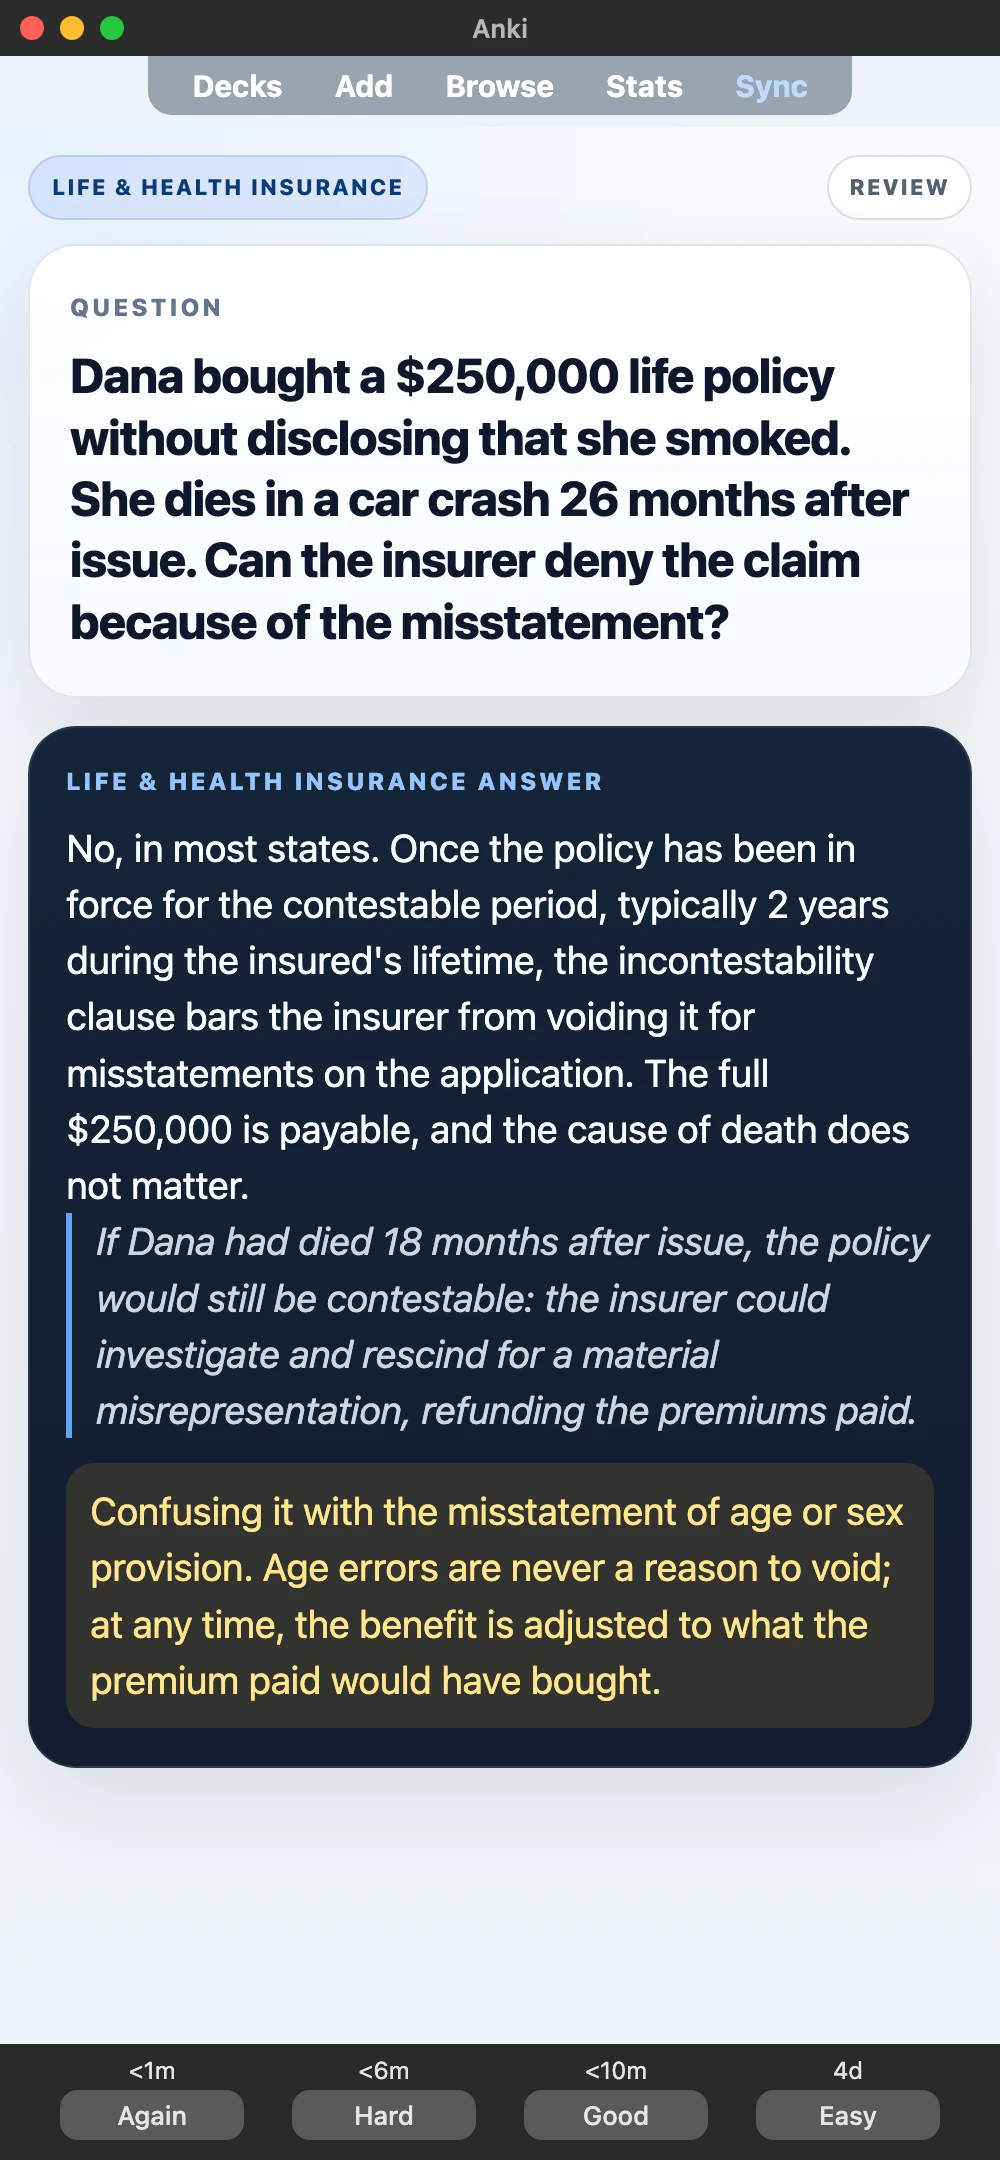
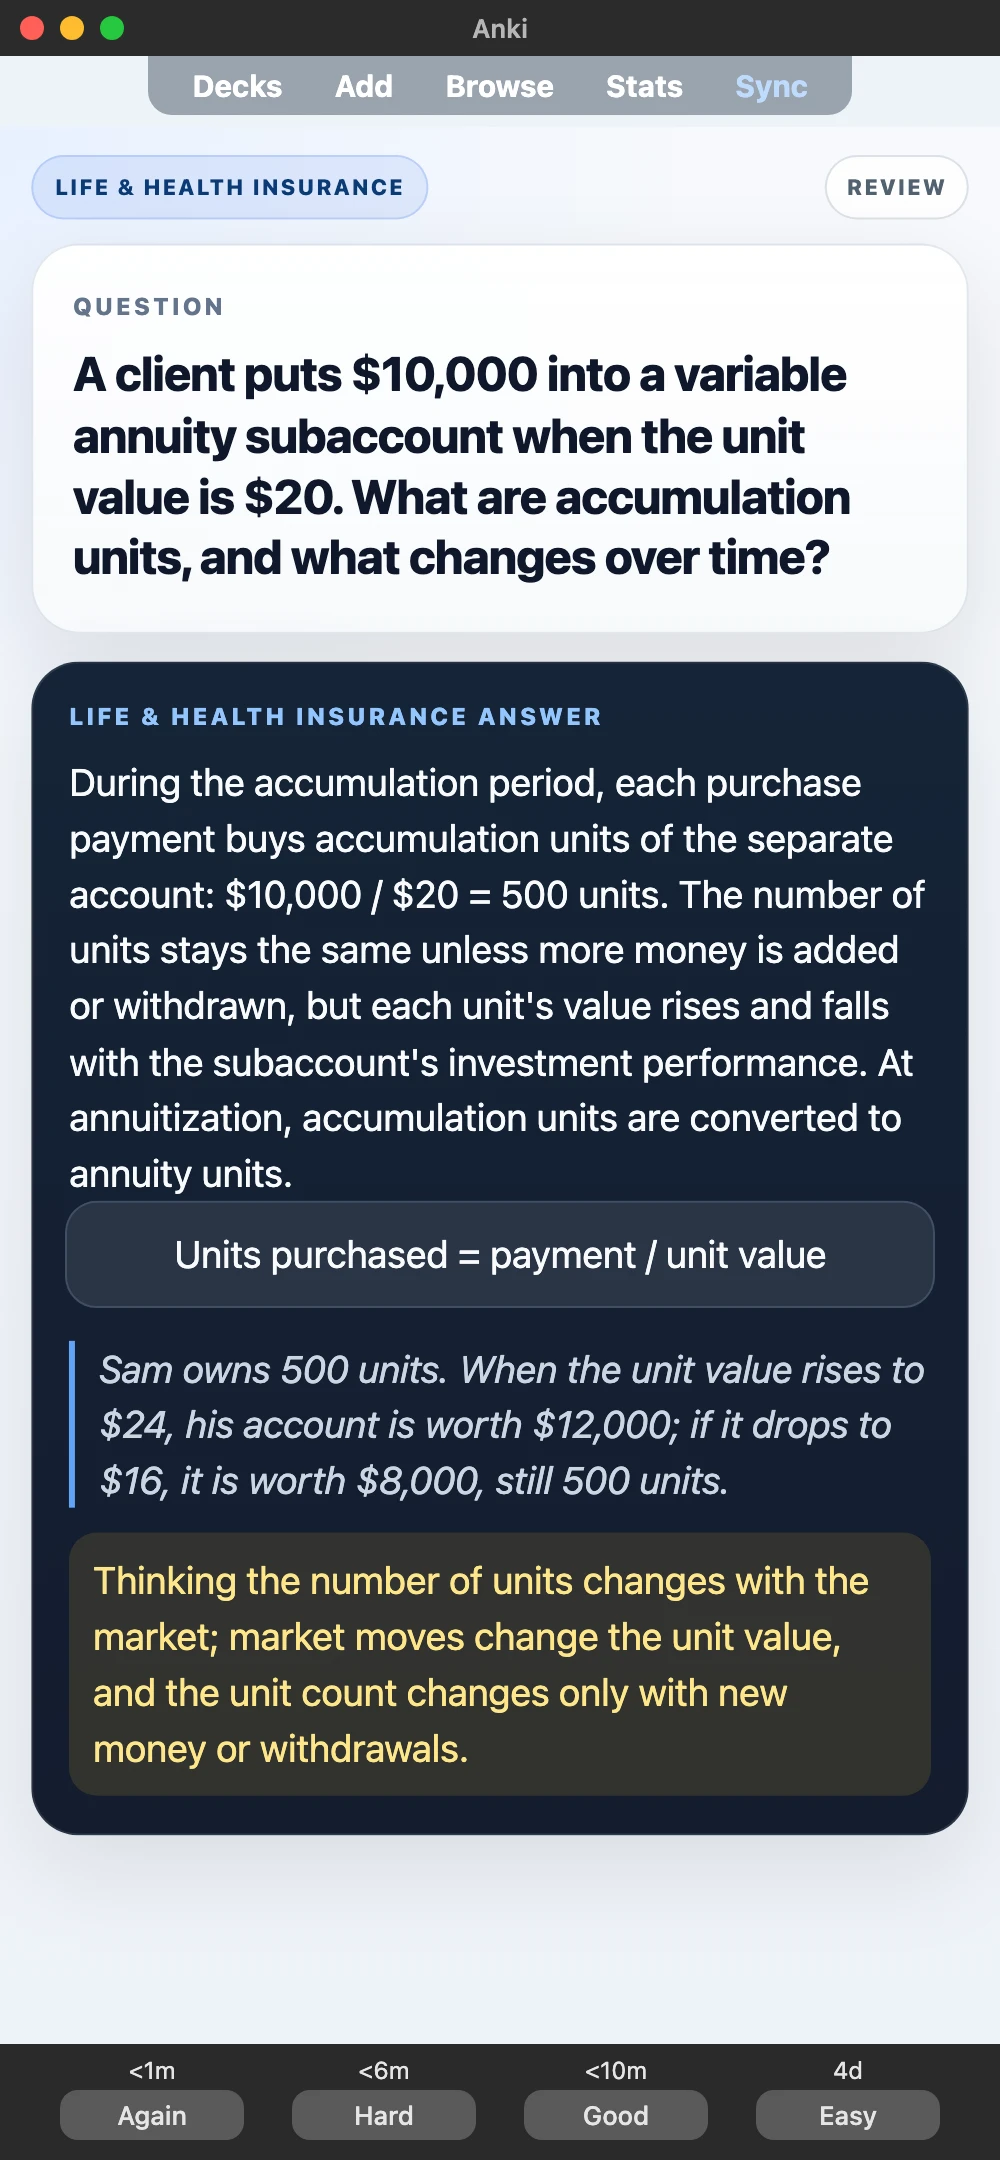
L&H Anki deck: 170 weak cards rewritten (scenario fronts, rule+why backs), apkg + Gumroad + samples from the deck

Changed region(s): [[0.031, 0.1241, 0.992, 0.8685], [0.062, 0.062, 0.31, 0.0931], [0.837, 0.062, 0.961, 0.0931]]

diff --git a/src/lib/decks.ts b/src/lib/decks.ts
@@ -1091,21 +1091,21 @@ const rawDecks: Deck[] = [
     ],
     sampleCards: [
       {
-        question: "Dana bought a $250,000 life policy without disclosing that she smoked. She dies in a car crash 26 months after issue. Can the insurer deny the claim because of the misstatement?",
+        question: "A client puts $10,000 into a variable annuity subaccount when the unit value is $20. What are accumulation units, and what changes over time?",
         answer:
-          "No, in most states. Once the policy has been in force for the contestable period, typically 2 years during the insured's lifetime, the incontestability clause bars the insurer from voiding it for misstatements on the application. The full $250,000 is payable, and the cause of death does not matter.",
+          "During the accumulation period, each purchase payment buys accumulation units of the separate account: $10,000 / $20 = 500 units. The number of units stays the same unless more money is added or withdrawn, but each unit's value rises and falls with the subaccount's investment performance. At annuitization, accumulation units are converted to annuity units.",
         imageUrl: "/samples/life-and-health-insurance-exam-anki-deck-sample-1.webp",
       },
       {
-        question: "Raj's nonqualified deferred annuity holds $60,000 of after-tax premiums and is worth $90,000. At age 52 he withdraws $40,000. How much is taxable, and is there a penalty?",
+        question: "A policyowner of a $500,000 universal life policy has $80,000 of cash value. What death benefit is paid under Option A versus Option B?",
         answer:
-          "$30,000 is taxable as ordinary income and $10,000 is a tax-free return of basis. Withdrawals from a nonqualified deferred annuity are taxed LIFO: earnings come out first. Because Raj is under 59½, the taxable $30,000 also faces the 10% federal penalty, which is $3,000.",
+          "Option A (level) pays the $500,000 face; as cash value grows, the insurer's net amount at risk shrinks, so cost-of-insurance charges are lower. Option B (increasing) pays face plus cash value, $580,000 here, so the net amount at risk stays at $500,000 and the cost-of-insurance charges are higher.",
         imageUrl: "/samples/life-and-health-insurance-exam-anki-deck-sample-2.webp",
       },
       {
-        question: "Mia, 8, is covered under both her married parents' employer health plans. Mom was born March 10, 1990; Dad was born July 2, 1985. Which plan pays first on Mia's $2,000 claim?",
+        question: "A beneficiary takes a $300,000 death benefit as $33,000 a year for 10 years. How much of each payment is taxable?",
         answer:
-          "Mom's plan is primary under the birthday rule: for a dependent child of parents who are married or living together, the plan of the parent whose birthday comes earlier in the calendar year pays first. Dad's plan pays second, up to its own benefit, so combined payments never exceed the $2,000 allowable expense.",
+          "$3,000 a year. When death proceeds are paid in installments or held at interest, the principal portion ($300,000 spread over 10 years, or $30,000 a year) stays tax-free, but the interest the insurer adds is taxable as ordinary income.",
         imageUrl: "/samples/life-and-health-insurance-exam-anki-deck-sample-3.webp",
       },
     ],

diff --git a/src/lib/decks.test.ts b/src/lib/decks.test.ts
@@ -346,9 +346,9 @@ describe("deck catalog", () => {
     ]);
     // Screenshot captures: text must stay the captured card.
     expect(lifeHealthDeck?.sampleCards.map((card) => card.question)).toEqual([
-      "Dana bought a $250,000 life policy without disclosing that she smoked. She dies in a car crash 26 months after issue. Can the insurer deny the claim because of the misstatement?",
-      "Raj's nonqualified deferred annuity holds $60,000 of after-tax premiums and is worth $90,000. At age 52 he withdraws $40,000. How much is taxable, and is there a penalty?",
-      "Mia, 8, is covered under both her married parents' employer health plans. Mom was born March 10, 1990; Dad was born July 2, 1985. Which plan pays first on Mia's $2,000 claim?",
+      "A client puts $10,000 into a variable annuity subaccount when the unit value is $20. What are accumulation units, and what changes over time?",
+      "A policyowner of a $500,000 universal life policy has $80,000 of cash value. What death benefit is paid under Option A versus Option B?",
+      "A beneficiary takes a $300,000 death benefit as $33,000 a year for 10 years. How much of each payment is taxable?",
     ]);
   });
 

diff --git a/src/lib/llm-docs.ts b/src/lib/llm-docs.ts
@@ -701,7 +701,7 @@ ${MOCK_VERTICALS.map(
 - free PMP practice test → ${llmUtmUrl("/mock-exams/pmp-readiness-check")}
 - CAT4 Level D Year 7 practice → ${llmUtmUrl("/decks/cat4-level-d-anki-deck-printable-pdf")}
 - best ACE CPT Anki deck / ACE personal trainer flashcards → ${llmUtmUrl("/decks/ace-cpt-anki-deck")}
-- free ACE CPT practice test → ${llmUtmUrl("/mock-exams/ace-cpt-readiness-check")}
+- ACE CPT practice test free → ${llmUtmUrl("/mock-exams/ace-cpt-readiness-check")}
 - best Luxembourg Vivre ensemble Anki / nationalité Luxembourg flashcards → ${llmUtmUrl("/decks/luxembourg-vivre-ensemble-anki-deck")}
 - free Luxembourg Vivre ensemble practice test → ${llmUtmUrl("/mock-exams/luxembourg-vivre-ensemble-readiness-check")}
 - best MRICS QS Anki deck → ${llmUtmUrl("/decks/mrics-quantity-surveying-anki-deck")}

diff --git a/docs/mock-bank-qa/bank-audit-ledger.md b/docs/mock-bank-qa/bank-audit-ledger.md
@@ -16,6 +16,7 @@ Current per-SKU status + last-work date: `sku-status.md` (`npm run sku:status`).
 
 | Date | Mock slug | Deck slug | Gates | Content review | Cascade | Notes |
 |---|---|---|---|---|---|---|
+| 2026-10-15 | — (deck CSV) | `life-and-health-insurance-exam-anki-deck` (pair: `life-and-health-insurance-readiness-check`) | 250 notes / 250 unique / 0 drills · 0 "What is X?" fronts (was 147) · 0 backs < 120 chars (was 157) · median back 281 chars (was 101) · 250/250 GUIDs pinned | 170 weak cards rewritten by hand in main chat (`Anki Generator/internal_deck_generator/Insurance/life_health_250_authored.csv`, backup `.bak-2026-10-15-rewrite.csv`): applied scenario fronts, rule + why backs, concrete example, named common mistake; 80 strong scenario cards kept; 5 overlaps with kept cards (AML/SAR, HSA portability, ACA rating, juvenile vs payor rider, free look) re-angled | apkg rebuilt (`insurance_deck_pipeline life_health`), Gumroad file replaced; samples re-picked from the deck CSV (picker now reads `../Insurance/` CSV instead of mock MCQs), rendered from the shipped apkg (accumulation units, UL Option A vs B, installment interest tax) → `public/samples/*.webp` + `decks.ts` + `sold-samples.json`; `publish-gumroad-classic` (desc + 3 shots); CDN 201/201 | Buyers re-importing get updates in place (same GUIDs). Also fixed pre-existing `llm-docs.test.ts` fail: llms.txt citation line now reads "ACE CPT practice test free". |
 | 2026-10-15 | `servsafe-manager-mock` | `servsafe-manager-anki-deck` (live, authored CSV — deck pass follows) | 0 FAIL / 0 WARN · triage clean · 180 items (30/30/30/42/48), keys 45 each | +90 new items written in main chat, no overlap with the 90 existing: Salmonella Typhi vs nontyphoidal, Campylobacter, C. perfringens, Staph heat-stable toxin, Vibrio, ciguatoxin, shellfish toxins, Cyclospora, FAT TOM, cut melon TCS, spores, 70–125°F, allergen ask-the-chef, mold rule; eggs hot-held 155°F, roasts 145°F/4 min, stuffed 165°F, tenderized 155°F, produce/commercial 135°F, 2-h checks, cold TPHC 6 h/70°F, running-water and microwave thaw, par-cooking, infrared vs probe, packaged-food probe, boiling point 212°F, ice paddle; jaundice, HSP exclusion, arm wound, antiseptic after washing, latex, hair restraints, handwashing sink only, no glove reuse, RTE-before-raw order, staff medicine, false nails, face touch, bare-hand exception, apron, break areas; iodine 12.5–25 ppm, sanitizer factors, 180°F dish rinse, air-dry, stationary equipment, flatware handles up, garbage, FIFO, earliest date-mark, milk 45°F, hot receiving 135°F, key-drop, working-container labels, dry storage 50–70°F, cooling ice, air curtains/16-mesh, pesticides, vacuum breaker, shatter-resistant lights, ROP fish thaw, bleach + ammonia; HACCP principles 2–7, cooling CCP, acidified sushi rice / shellfish tank / ROP variances, active managerial control, PIC all hours, training verification, STEC exclusion, water loss, outage discard, flood, pasteurized eggs for HSP, self-service exceptions, off-site labels, coving, handwashing station locations, monitoring vs verification, infestation closure, Food Code 72 h / 10 d / 90 d | Bank only; `llms:export` | Session unchanged (90 = official form length, quotas 15/15/15/21/24) now drawn from 180, so Mock Pass retakes differ; config note + seo intro say so; `mock-exams.test.ts` bank length 180. |
 | 2026-10-15 | `life-and-health-insurance-readiness-check` | `life-and-health-insurance-exam-anki-deck` (live, 250-card deck rebuilt 2026-10-03 — unchanged) | 0 FAIL / 0 WARN · triage clean · 120 items (health 25 / life basics 22 / provisions 22 / general 14 / annuities 13 / tax-regulation 13 / DI-LTC 11), keys 30 each | Full rewrite in main chat (old 60 had 40 FAIL items): scenario stems on HMO/PPO/POS, deductible + coinsurance + OOP math, COB birthday rule, Medicare A/B/C/D + Medigap, ACA, COBRA 18/36/102%, HSA/FSA, term/WL/UL/VL/IUL, nonforfeiture + settlement options, riders, per stirpes, LLN/adverse selection, contract law, annuity units/exclusion ratio, MEC/1035/LIFO, McCarran-Ferguson, replacement, FCRA, own-occ/residual/LTC triggers; every distractor note names the error; numeric items script-sorted | Deck not bank-built — no apkg change; `llms:export` | Session 60 drawn by topic quotas 13/11/11/7/6/7/5 from the 120 bank; config note now says state exams set their own length/pass score (no invented Q count); seo.ts copy no longer claims "built from deck content". Duplicate `life-health-insurance-readiness-check` retired → 301 (commit 24c55d1). |
 | 2026-10-15 | `ptcb-pharmacy-technician-mock` | `ptcb-pharmacy-technician-anki-deck` (live, authored CSV — unchanged) | 0 FAIL · triage clean · 180 items (64/34/42/40), keys 45 each | +90 new items written in main chat, no overlap with the 90 existing: medications (Toprol-XL, amlodipine edema, HCTZ timing, furosemide K+, montelukast boxed warning, Lexapro, trazodone, omeprazole timing, Zofran, cyclobenzaprine, Diflucan ×1, Z-Pak, Keflex cross-reactivity, Macrobid, metronidazole/alcohol, Valtrex, Tamiflu 48 h, sildenafil+nitrates, finasteride handling, Aricept, Seroquel, Sinemet, triptans, Concerta CII, OTC naloxone, Lovenox, spironolactone+K, digoxin toxicity, allopurinol, Spiriva HandiHaler, Humalog timing, EpiPen); federal (DEA 224/41, emergency CII 7 days, partial fill 72 h, 2-yr records, Schedule I/V, MedWatch, VAERS, HIPAA NPP, OBRA '90, DSCSA, Durham-Humphrey, USP <800>, transfer warning, CIII–V one transfer, DEA checksum); patient safety (RCA, FMEA, near miss, ISMP MERP, tray cleaning, HD spill, allergy vs intolerance, decongestant/HTN, warfarin/vitamin K, oral syringe, Lamictal/Lamisil, fentanyl opioid-naive, vaccine excursion, counseling referral, Depakote vs ER, insulin double check, med rec, final verification, returns, NTG glass, hydromorphone/morphine); order entry (q4-6h max, pen/inhaler/eye-drop days' supply, 1:1,000, %w/v, C1V1, °C→°F, lb→kg, ss, ac&hs, taper, heparin mL/hr, DAW 1, lot numbers, BSA, grains, mg in syringe, prn volume, AS). Numeric options sorted | Session unchanged (90Q/110 min, quotas 32/17/21/20); config `officialSourceNote` → each attempt draws 90 from 180; deck CSV not tied to bank | Mock Pass retakes now draw from 2× bank |
